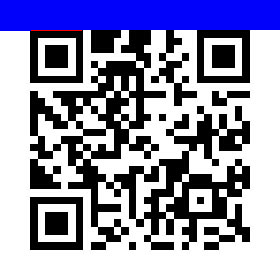
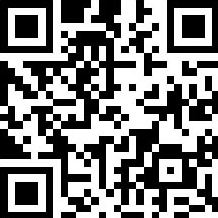
cut done

diff --git a/cut.c b/cut.c
@@ -28,7 +28,7 @@ int get_index(SDL_Surface* surface,int i)
         {
             return index; 
         }
-        pixels[index] = SDL_MapRGB(format,1,1,250);
+        //pixels[index] = SDL_MapRGB(format,1,1,250);
         index +=1;
     }
     return -1;
@@ -45,39 +45,146 @@ int is_corner (SDL_Surface* surface,int i)
 	int size_haut = surface->h; 
 
     int temp = i%size_haut;
-    int size= 0;
+    int size = 0;
     SDL_GetRGB(pixels[i],format,&r,&g,&b);
     while (temp<size_large && r<10 && g<10 && b<10)
     {    
-    	pixels[i] = SDL_MapRGB(format,250,1,1);
         i++;
         temp++;
         size++;
-        
         SDL_GetRGB(pixels[i],format,&r,&g,&b);
     }
-    size--;
+
+    int res = size;
+    if (res<=30)
+        errx(EXIT_FAILURE, "No QrCode");
+    
+    // left side
     int tempL = i-size;
-    int tempR = i;
-    Uint8 r1,g1,b1;
     SDL_GetRGB(pixels[tempL],format,&r,&g,&b);
-    SDL_GetRGB(pixels[tempR],format,&r1,&g1,&b1);
-    while (size>0 && tempL/size_large<size_haut && tempR/size_large<size_haut && r<10 && g<10 && b<10 && r1<10 && g1<10 && b1<10)
+    while (size>0 && tempL<size_haut*size_large && r<10 && g<10 && b<10)
     {
-            pixels[tempL] = SDL_MapRGB(format,1,1,250);
-            pixels[tempR] = SDL_MapRGB(format,1,1,250);
+            
+            //pixels[tempL] = SDL_MapRGB(format,250,1,1);
             tempL+=size_large;
-            tempR+=size_large;
             size--;
             SDL_GetRGB(pixels[tempL],format,&r,&g,&b);
-            SDL_GetRGB(pixels[tempR],format,&r1,&g1,&b1);
     }
-    if (size == 0)
+
+    
+    //left side is working
+
+    //right side
+    int size2 = res;
+    i--;
+    SDL_GetRGB(pixels[i],format,&r,&g,&b);
+    while (size2>0 && i<size_haut*size_large && r<10 && g<10 && b<10)
     {
-        IMG_SavePNG(surface,"test.png");
+        //pixels[i] = SDL_MapRGB(format,250,1,1);
+        i+=size_large;
+        size2--;
+        SDL_GetRGB(pixels[i],format,&r,&g,&b);
+    }
+
+    //right side os working
+
+    //bottom
+    while (tempL<i && r<10 && g<10 && b<10)
+    {
+        tempL++;
+        SDL_GetRGB(pixels[tempL],format,&r,&g,&b);
+    }
+    //bottom is working
+
+    if (size == 0 && size2==0 && tempL>=i)
+    {
+        return res;
+    }
+    return -1;
+}
+
+
+
+int is_corner_bis (SDL_Surface* surface,int i, int size)
+{
+    Uint32* pixels = surface->pixels;
+	SDL_PixelFormat* format = surface->format;
+    Uint8 r,g,b;
+    int size_large =  surface->w;
+	int size_haut = surface->h; 
+
+    int temp = i;
+    int tempsize = size;
+    SDL_GetRGB(pixels[temp],format,&r,&g,&b);
+    while (tempsize>0 && temp<size_large*size_haut && r<10 && g<10 && b<10)
+    {   
+        //pixels[temp] = SDL_MapRGB(format,1,250,1);
+        temp++;
+        tempsize--;
+        SDL_GetRGB(pixels[temp],format,&r,&g,&b);
+    }
+    if (tempsize>0)
+        return -temp;
+    
+    // left side
+    tempsize = size;
+    SDL_GetRGB(pixels[i],format,&r,&g,&b);
+    while (tempsize>0 && i<size_haut*size_large && r<10 && g<10 && b<10)
+    {
+            //pixels[i] = SDL_MapRGB(format,1,250,1);
+            i+=size_large;
+            tempsize--;
+            SDL_GetRGB(pixels[i],format,&r,&g,&b);
+    }
+    if (tempsize>0)
+        return -1;
+
+    //left side is working
+
+    //right side
+    tempsize = size-1;
+    temp--;
+    SDL_GetRGB(pixels[temp],format,&r,&g,&b);
+    while (tempsize>0 && temp<size_haut*size_large && r<10 && g<10 && b<10)
+    {
+        //pixels[temp] = SDL_MapRGB(format,1,250,1);
+        temp+=size_large;
+        tempsize--;
+        SDL_GetRGB(pixels[temp],format,&r,&g,&b);
+    }
+    if (tempsize>0)
+        return -1;
+
+    //right side os working
+
+    //bottom
+    while (i<temp && r<10 && g<10 && b<10)
+    {
+        i++;
+        SDL_GetRGB(pixels[i],format,&r,&g,&b);
+    }
+    //bottom is working
+    
+    if (i>=temp)
+    {
         return 1;
     }
-    return 0;
+    return -1;
+}
+
+SDL_Surface* crop_qrcode(SDL_Surface *image, int x, int y, int w, int h) 
+{
+    SDL_Rect rect;
+    rect.x = x;
+    rect.y = y;
+    rect.w = w;
+    rect.h = h;
+    
+    SDL_Surface* rogner = SDL_CreateRGBSurface(0,w,h,32,0,0,0,0);
+    
+    SDL_BlitSurface(image,&rect,rogner,NULL);
+    SDL_FreeSurface(image);
+    return rogner;
 }
 
 
@@ -87,10 +194,62 @@ int main(int argc, char** argv)
         errx(EXIT_FAILURE, "Usage: image-file");
     
     SDL_Surface* surface = load_image(argv[1]);
+
+
+    Uint32* pixels = surface->pixels;
+	SDL_PixelFormat* format = surface->format;
+    Uint8 r,g,b;
+    int size_large =  surface->w;
+	int size_haut = surface->h; 
+
+    //try to find upperleft corner
+    
     int i= get_index(surface,0);
     if (i == -1 )
          errx(EXIT_FAILURE, "No QrCode");
-    is_corner (surface,i);
+
+    int size = is_corner (surface,i);
+    int x =0;
+    while (size == -1)
+    {
+            i= get_index(surface,i);
+            if (i!=-1)
+                size = is_corner (surface,i);
+            else 
+                errx(EXIT_FAILURE, "No QrCode");
+    }
+    x = i;
+
+    //corner found 
+
+    int boo = -1;
+    while (boo<=-1)
+    {
+        
+        i++;
+        if (i<size_haut*size_large)
+        {
+            //pixels[i] = SDL_MapRGB(format,1,250,1);
+            SDL_GetRGB(pixels[i],format,&r,&g,&b);
+            if (r<10)
+            {
+                boo = is_corner_bis (surface,i,size);
+                if (boo<0)
+                    i+=size;
+            }
+        }
+        else 
+            errx(EXIT_FAILURE, "No QrCode");
+
+    }
+    int largeur = i + size - x;
+
+    int y = x/size_large;
+    x = x%size_large;
+    surface=  crop_qrcode(surface,x-1,y, largeur, largeur);
+
     IMG_SavePNG(surface,"pretraitement.PNG");
+
+    SDL_FreeSurface(surface);
     return 0;
 }
